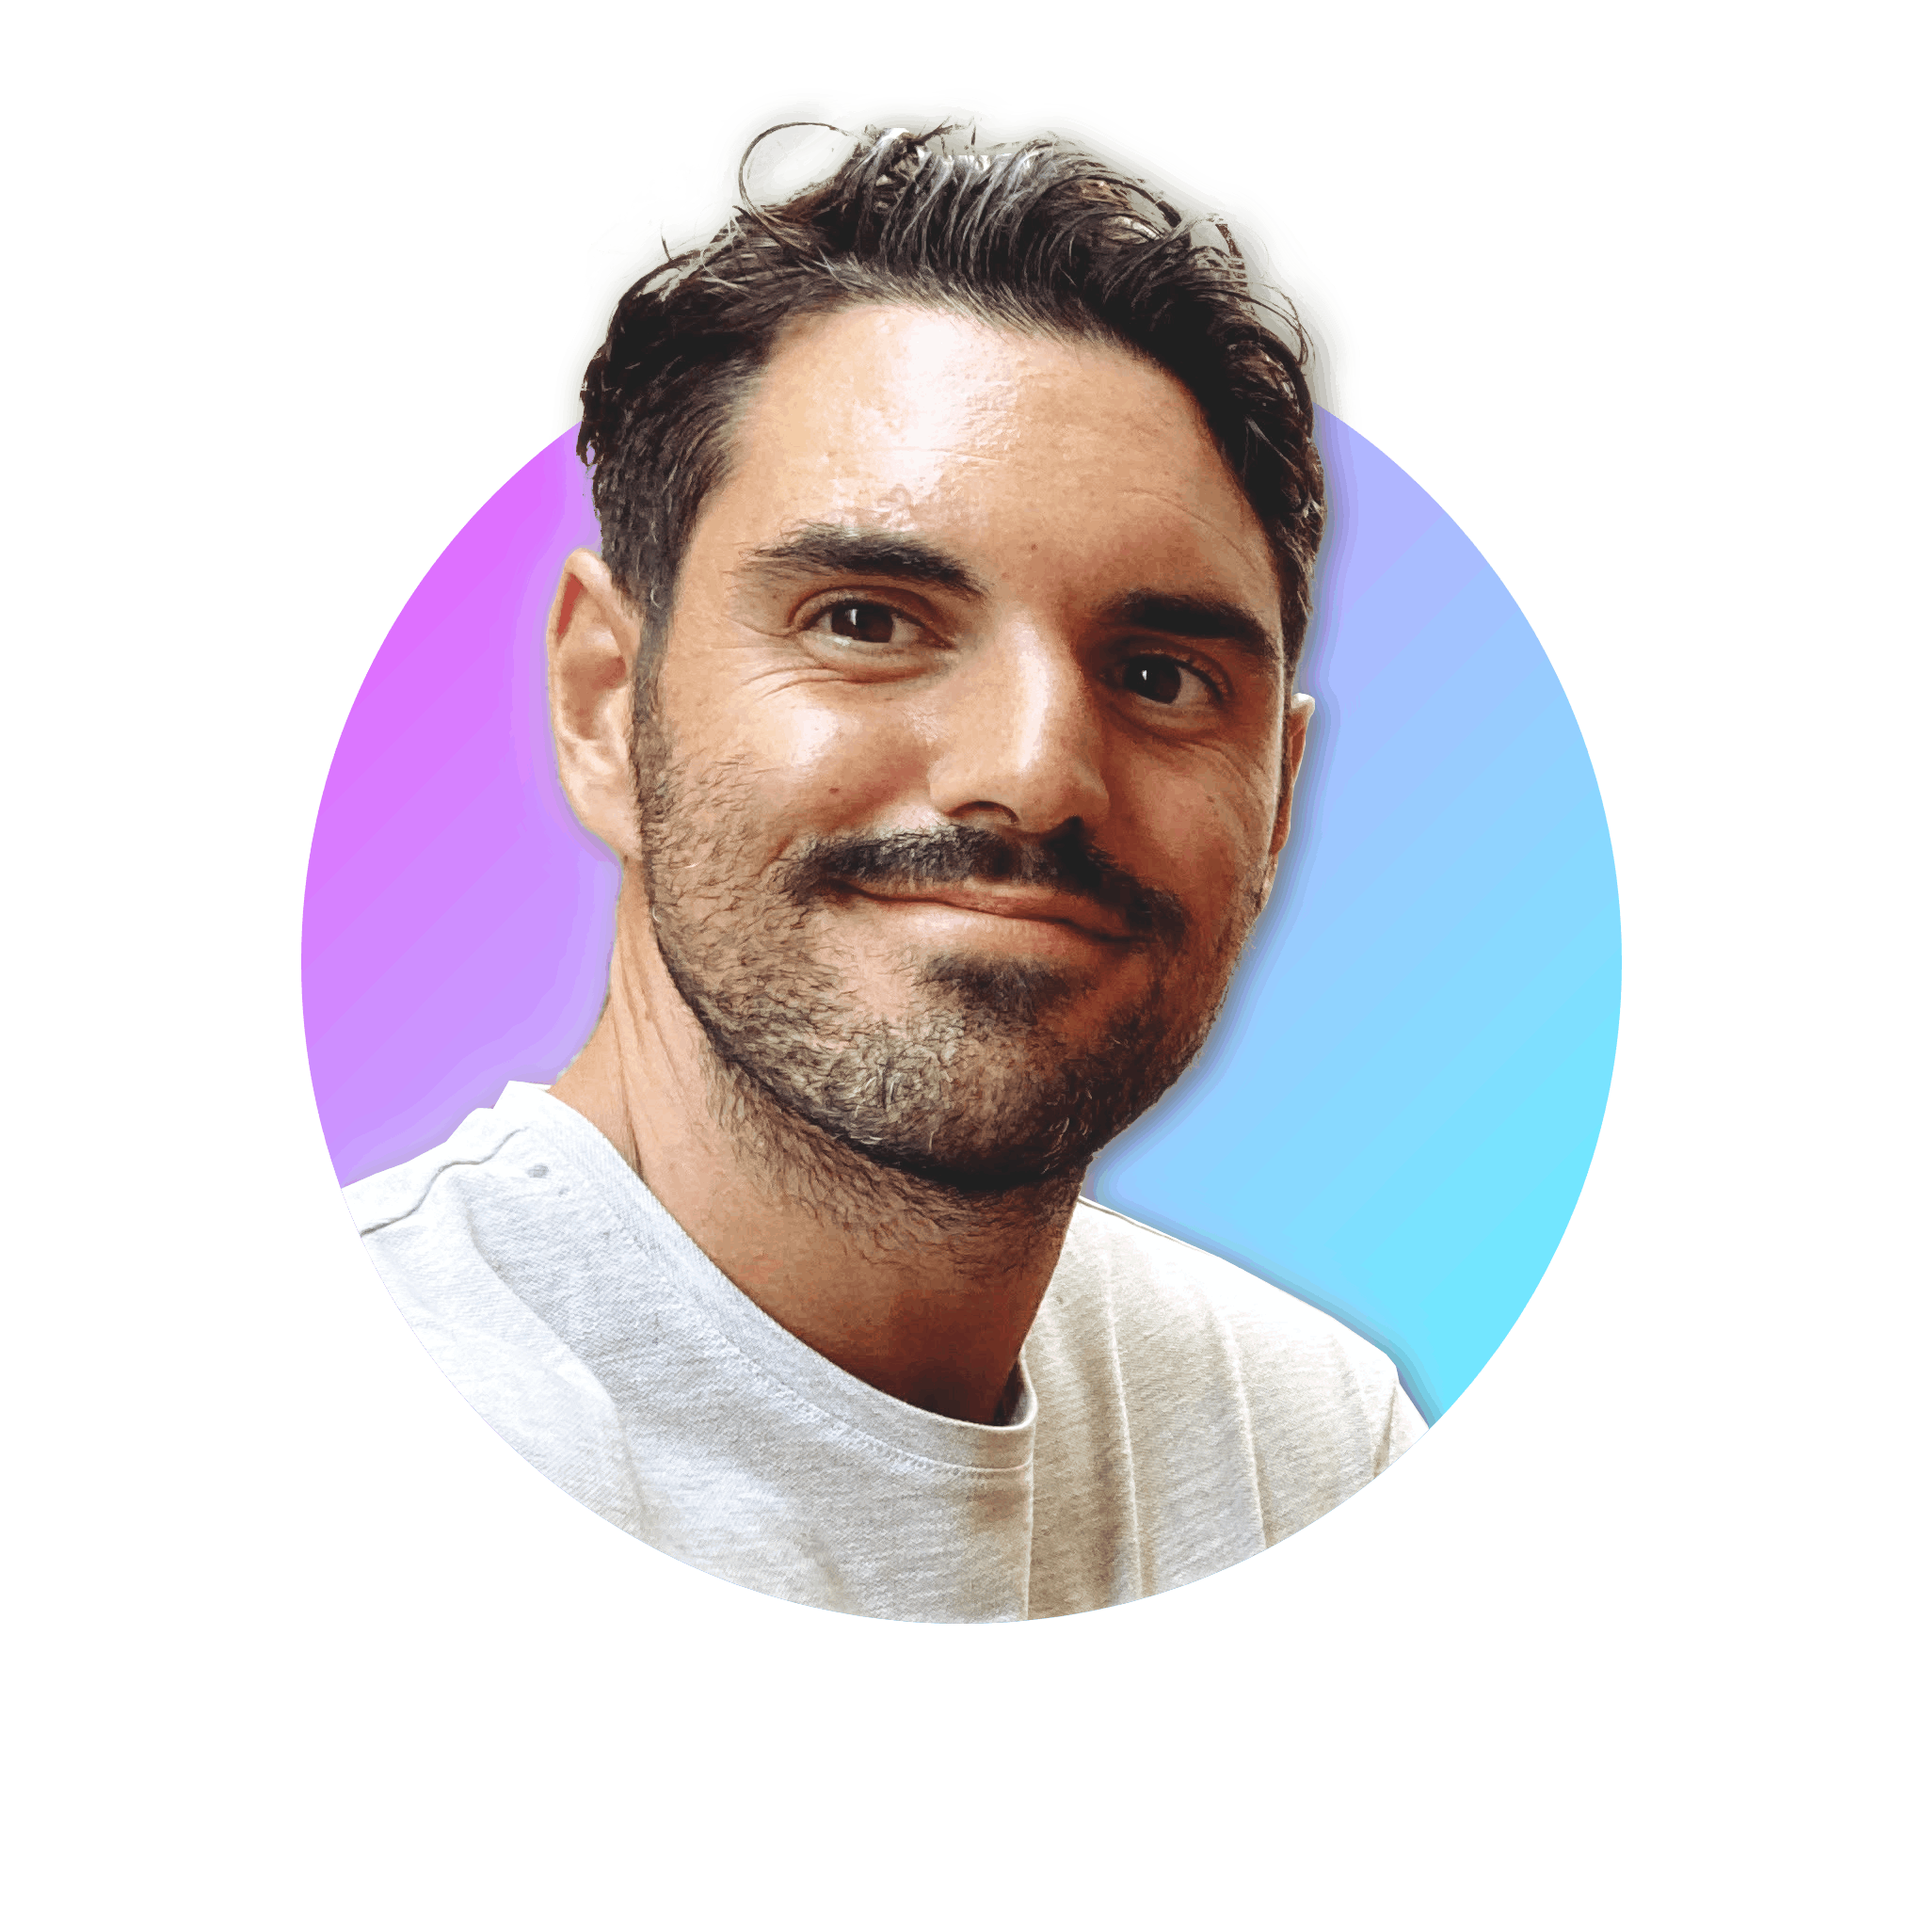
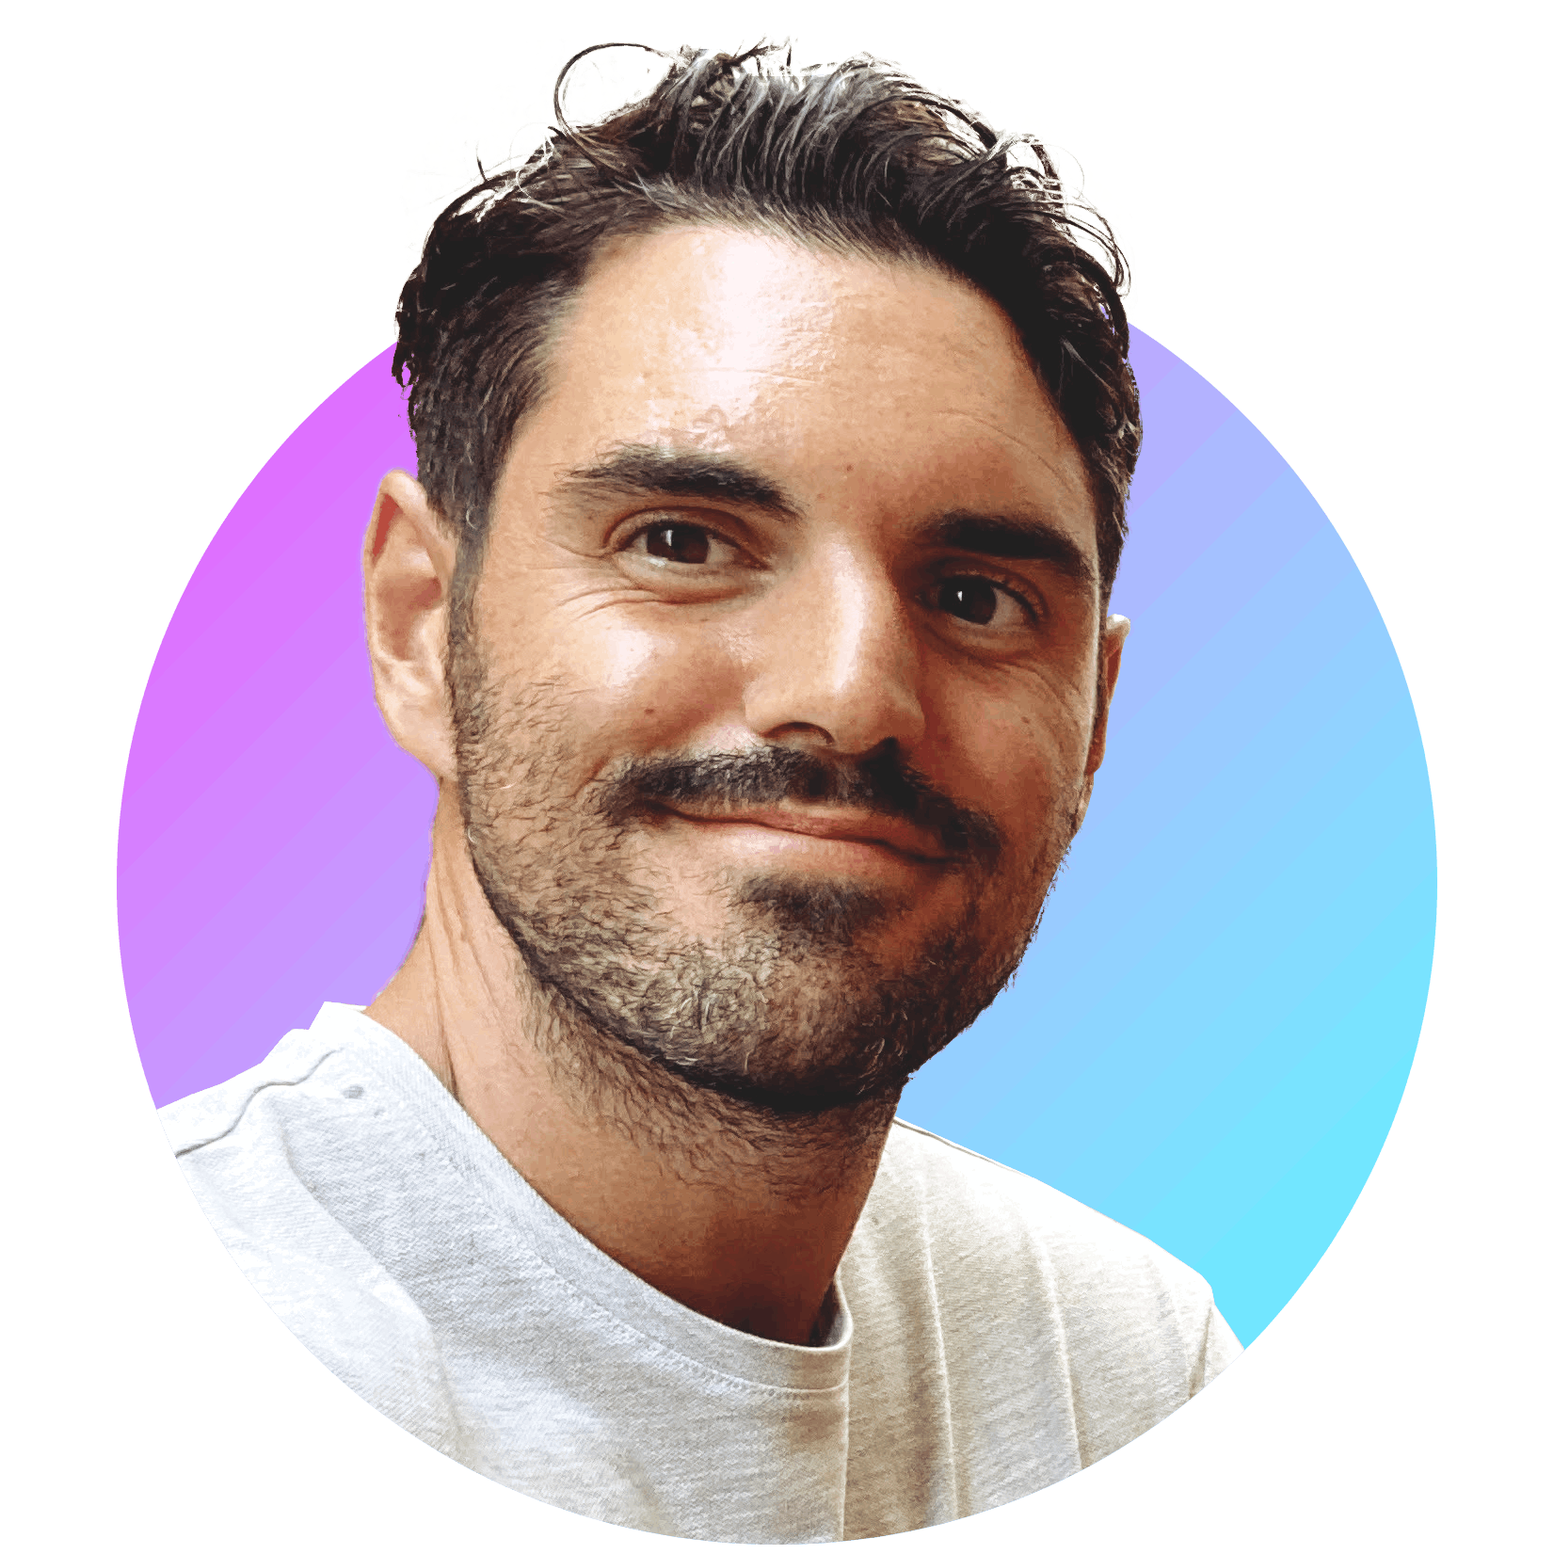
WIP

diff --git a/src/frontend/shared/components/Layout/components/NavBar/NavBar.tsx b/src/frontend/shared/components/Layout/components/NavBar/NavBar.tsx
@@ -153,9 +153,10 @@ export const NavBar: FC<NavBarProps> = () => {
           Hugo Corta
         </Link>
       </NextLink>
-      <Stack spacing={4}>
-        {isSmallScreen ? <Menu /> : <PagesLinks />}
+      {!isSmallScreen && <PagesLinks />}
+      <Stack spacing={2}>
         <ThemeButton />
+        {isSmallScreen && <Menu />}
       </Stack>
     </Stack>
   )

diff --git a/src/frontend/modules/home/Home.module.css b/src/frontend/modules/home/Home.module.css
@@ -2,12 +2,12 @@
   display: grid;
   grid-template-columns: 1fr auto;
   align-items: center;
-  gap: 2rem;
 }
 
-@media (max-width: 768px) {
+@media (max-width: 900px) {
   .container {
     grid-template-rows: 1fr auto;
     grid-template-columns: 1fr;
+    padding: 20px !important;
   }
 }

diff --git a/src/frontend/modules/home/Home.tsx b/src/frontend/modules/home/Home.tsx
@@ -52,8 +52,8 @@ export const Home: NextPage = () => {
 
       <Box
         display={'block'}
-        width={'320px'}
-        height={'320px'}
+        width={'360px'}
+        height={'360px'}
         position={'relative'}
       >
         <NextImage

diff --git a/src/frontend/shared/styles/themes/light.ts b/src/frontend/shared/styles/themes/light.ts
@@ -15,7 +15,7 @@ export const lightTheme: ThemeOptions = deepmerge(
         main: '#000000'
       },
       secondary: {
-        main: '#bd34fe'
+        main: '#36a3ff'
       },
       text: {
         primary: '#4d4d4d',
